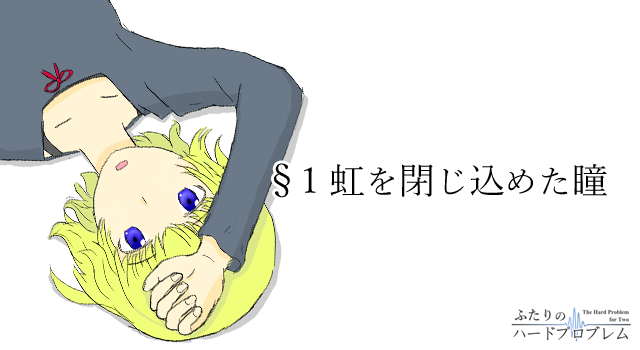
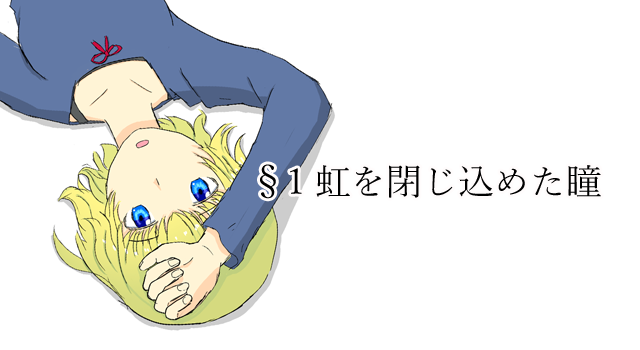
§1扉絵、手直し

diff --git a/picture/nozomi06.html b/picture/nozomi06.html
@@ -14,7 +14,7 @@
   </div>
   
   <div class="image">
-    <img src="image/nozomi06.jpg" alt="">
+    <img src="image/nozomi06.png" alt="">
   </div>
 
   <div class="picturetitle">
